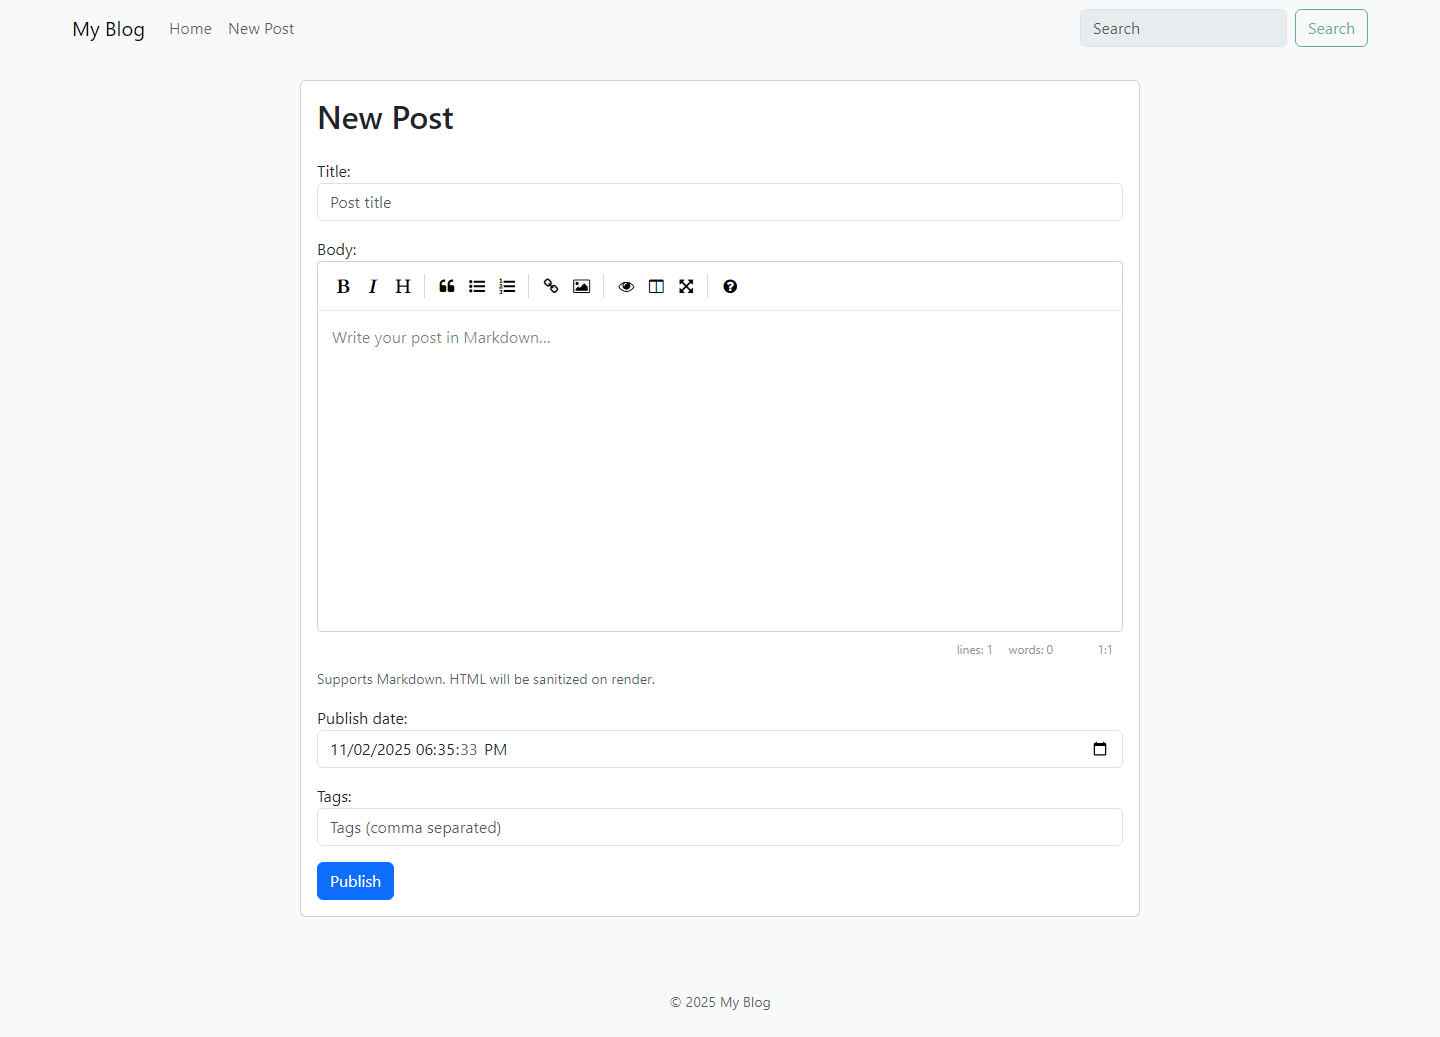
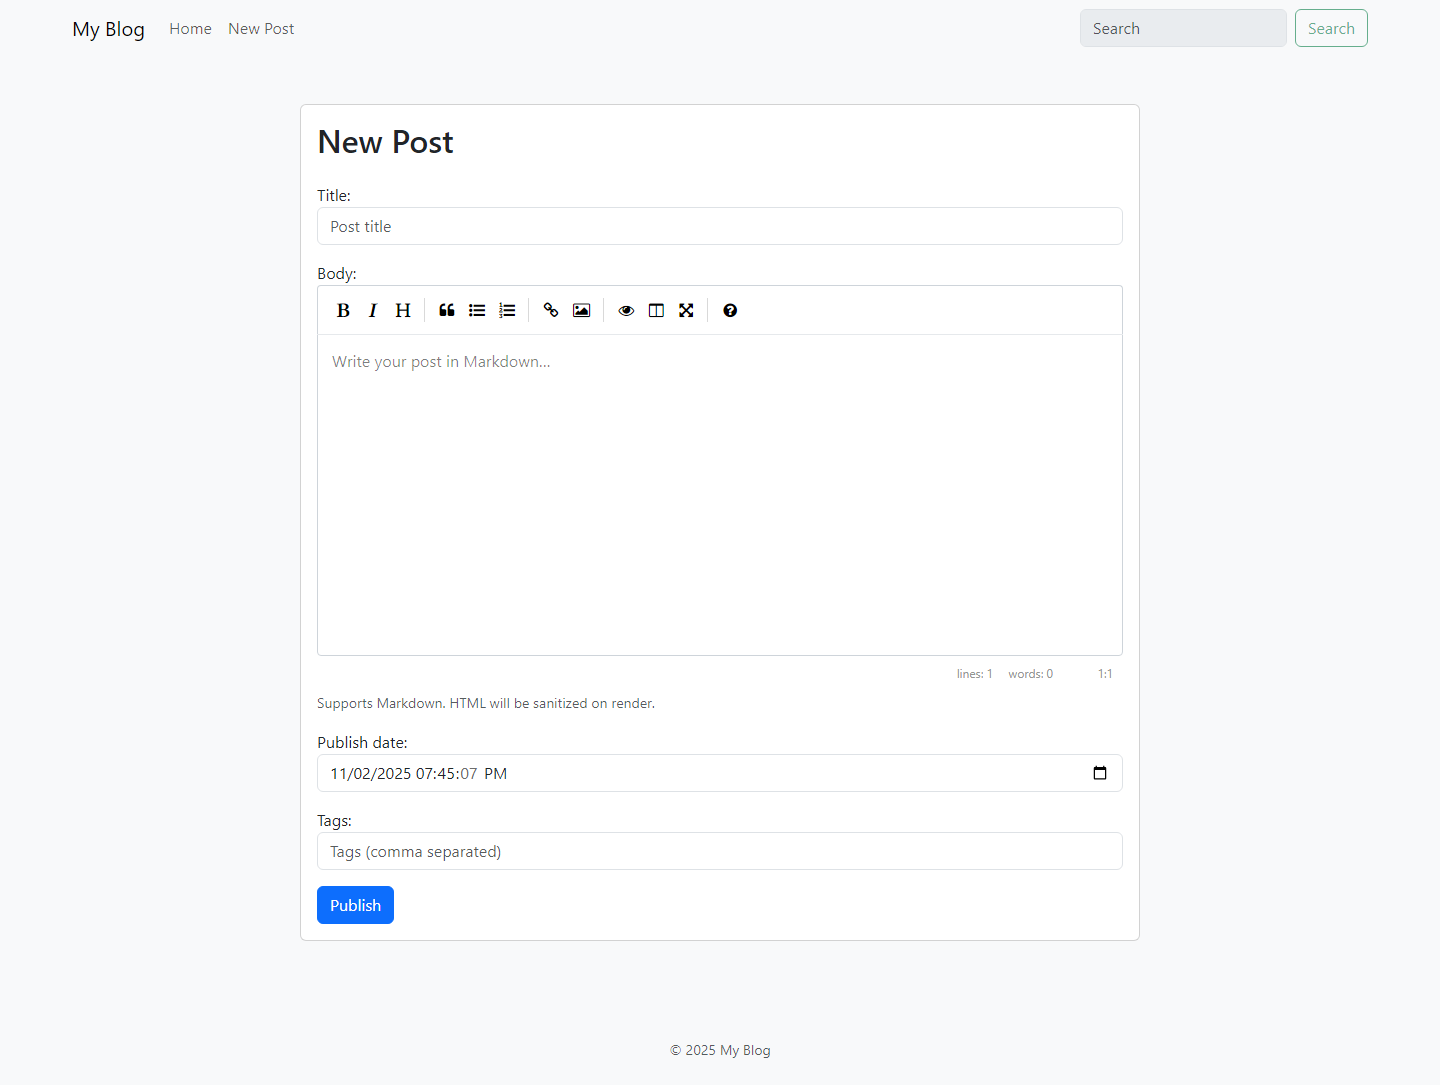
feat: sticky footer partial and richer visual-check screenshots; build: require Python 3.13; docs: uv/uvx + ruff

diff --git a/blog_site/blog/templates/blog/base.html b/blog_site/blog/templates/blog/base.html
@@ -18,17 +18,13 @@
         <link href="https://cdn.jsdelivr.net/npm/bootstrap@5.3.3/dist/css/bootstrap.min.css"
               rel="stylesheet">
     </head>
-    <body class="bg-light">
+    <body class="bg-light d-flex flex-column min-vh-100">
         {% include "includes/navbar.html" %}
-        <main class="container my-4">
+        <main class="container my-4 flex-grow-1">
             {% block content %}
             {% endblock content %}
         </main>
-        <footer class="bg-body-tertiary py-4 mt-5">
-            <div class="container text-center">
-                <small class="text-muted">© {% now "Y" %} My Blog</small>
-            </div>
-        </footer>
+        {% include "includes/footer.html" %}
         <!-- HTMX (optional) -->
         <script src="https://unpkg.com/htmx.org@1.9.12"></script>
         <!-- Bootstrap Bundle -->

diff --git a/blog_site/blog/templates/includes/footer.html b/blog_site/blog/templates/includes/footer.html
@@ -1,0 +1,6 @@
+<footer class="bg-body-tertiary py-4 mt-5">
+  <div class="container text-center">
+    <small class="text-muted">© {% now "Y" %} My Blog</small>
+  </div>
+  {% block extra_footer %}{% endblock extra_footer %}
+</footer>

diff --git a/blog_site/blog/tests.py b/blog_site/blog/tests.py
@@ -1,7 +1,8 @@
 from django.test import TestCase
-from django.urls import reverse, resolve
-from .models import Post
+from django.urls import resolve, reverse
 from django.utils import timezone
+
+from .models import Post
 
 
 class PostCBVTests(TestCase):
@@ -22,9 +23,7 @@ class PostCBVTests(TestCase):
         self.assertContains(response, self.post.title)
 
     def test_post_detail_view(self):
-        response = self.client.get(
-            reverse("blog:post_detail", kwargs={"slug": self.post.slug})
-        )
+        response = self.client.get(reverse("blog:post_detail", kwargs={"slug": self.post.slug}))
         self.assertEqual(response.status_code, 200)
         self.assertContains(response, self.post.body)
 
@@ -54,9 +53,7 @@ class PostCBVTests(TestCase):
         self.assertEqual(self.post.title, "Updated Title")
 
     def test_post_delete_view(self):
-        response = self.client.post(
-            reverse("blog:post_delete", kwargs={"slug": self.post.slug})
-        )
+        response = self.client.post(reverse("blog:post_delete", kwargs={"slug": self.post.slug}))
         self.assertEqual(response.status_code, 302)
         self.assertFalse(Post.objects.filter(pk=self.post.pk).exists())
 
@@ -64,13 +61,9 @@ class PostCBVTests(TestCase):
         """
         The post detail view should render Markdown and sanitize HTML.
         """
-        self.post.body = (
-            "**Bold** and [link](https://example.com)<script>alert(1)</script>"
-        )
+        self.post.body = "**Bold** and [link](https://example.com)<script>alert(1)</script>"
         self.post.save()
-        response = self.client.get(
-            reverse("blog:post_detail", kwargs={"slug": self.post.slug})
-        )
+        response = self.client.get(reverse("blog:post_detail", kwargs={"slug": self.post.slug}))
         self.assertContains(response, "<strong>Bold</strong>")
         self.assertContains(response, '<a href="https://example.com"')
         self.assertNotContains(response, "<script>")

diff --git a/blog_site/scripts/visual_check.py b/blog_site/scripts/visual_check.py
@@ -61,13 +61,21 @@ def main() -> int:
             context = browser.new_context(viewport={"width": 1440, "height": 900})
             page = context.new_page()
 
-            # 1) Blog list page
-            page.goto(f"{base_url}/blog/", wait_until="networkidle")
-            page.screenshot(path=str(out_dir / "blog_list.png"), full_page=True)
+            ts = time.strftime("%Y%m%d_%H%M%S")
+            history_dir = out_dir / "history"
+            history_dir.mkdir(exist_ok=True)
 
-            # 2) New post form (no submit to avoid editor scripting complexities)
-            page.goto(f"{base_url}/blog/post/new/", wait_until="networkidle")
+            # 1) Blog list page (cache-busted) — capture full-page and viewport variants
+            page.goto(f"{base_url}/blog/?_ts={ts}", wait_until="networkidle")
+            page.screenshot(path=str(out_dir / "blog_list.png"), full_page=True)
+            page.screenshot(path=str(out_dir / "blog_list_vp.png"), full_page=False)
+            page.screenshot(path=str(history_dir / f"blog_list_{ts}.png"), full_page=False)
+
+            # 2) New post form (cache-busted); no submit to avoid editor complexities
+            page.goto(f"{base_url}/blog/post/new/?_ts={ts}", wait_until="networkidle")
             page.screenshot(path=str(out_dir / "post_form.png"), full_page=True)
+            page.screenshot(path=str(out_dir / "post_form_vp.png"), full_page=False)
+            page.screenshot(path=str(history_dir / f"post_form_{ts}.png"), full_page=False)
 
             context.close()
             browser.close()

diff --git a/blog_site/blog/forms.py b/blog_site/blog/forms.py
@@ -1,4 +1,5 @@
 from django import forms
+
 from .models import Post
 
 
@@ -22,9 +23,7 @@ class PostForm(forms.ModelForm):
             "publish_date": forms.DateTimeInput(
                 attrs={"type": "datetime-local", "class": "form-control"}
             ),
-            "title": forms.TextInput(
-                attrs={"class": "form-control", "placeholder": "Post title"}
-            ),
+            "title": forms.TextInput(attrs={"class": "form-control", "placeholder": "Post title"}),
             "tags": forms.TextInput(
                 attrs={"class": "form-control", "placeholder": "Tags (comma separated)"}
             ),

diff --git a/blog_site/myblog/urls.py b/blog_site/myblog/urls.py
@@ -14,11 +14,11 @@ Including another URLconf
     1. Import the include() function: from django.urls import include, path
     2. Add a URL to urlpatterns:  path('blog/', include('blog.urls'))
 """
+
 from django.contrib import admin
-from django.urls import path, include
+from django.urls import include, path
 
 urlpatterns = [
     path("admin/", admin.site.urls),
-    path('blog/', include('blog.urls', namespace='blog')),
-
+    path("blog/", include("blog.urls", namespace="blog")),
 ]

diff --git a/blog_site/blog/views.py b/blog_site/blog/views.py
@@ -1,13 +1,14 @@
-from django.views.generic import (
-    ListView,
-    DetailView,
-    CreateView,
-    UpdateView,
-    DeleteView,
-)
 from django.urls import reverse_lazy
-from .models import Post
+from django.views.generic import (
+    CreateView,
+    DeleteView,
+    DetailView,
+    ListView,
+    UpdateView,
+)
+
 from .forms import PostForm
+from .models import Post
 
 
 class PostListView(ListView):

diff --git a/blog_site/blog/admin.py b/blog_site/blog/admin.py
@@ -1,9 +1,11 @@
 from django.contrib import admin
+
 from .models import Post
+
 
 @admin.register(Post)
 class PostAdmin(admin.ModelAdmin):
     list_display = ("title", "publish_date")
     search_fields = ("title", "body")
-    #prepopulated_fields = {"slug": ("title",)}
+    # prepopulated_fields = {"slug": ("title",)}
     change_form_template = "admin/blog/post/change_form.html"

diff --git a/api_examples/enroll_all.py b/api_examples/enroll_all.py
@@ -14,7 +14,7 @@ while url is not None:
     url = response["next"]
     courses = response["results"]
     available_courses += [course["title"] for course in courses]
-print(f'Available courses: {", ".join(available_courses)}')
+print(f"Available courses: {', '.join(available_courses)}")
 
 for course in courses:
     course_id = course["id"]

diff --git a/blog_site/blog/_functon_based_views.py b/blog_site/blog/_functon_based_views.py
@@ -1,7 +1,8 @@
-from django.shortcuts import render, get_object_or_404, redirect
 from django.http import HttpRequest, HttpResponse
-from .models import Post
+from django.shortcuts import get_object_or_404, redirect, render
+
 from .forms import PostForm
+from .models import Post
 
 
 def post_list(request: HttpRequest) -> HttpResponse:

diff --git a/blog_site/blog/urls.py b/blog_site/blog/urls.py
@@ -1,12 +1,12 @@
 from django.urls import path
-from .views import (
-    PostListView,
-    PostDetailView,
-    PostCreateView,
-    PostUpdateView,
-    PostDeleteView,
-)
 
+from .views import (
+    PostCreateView,
+    PostDeleteView,
+    PostDetailView,
+    PostListView,
+    PostUpdateView,
+)
 
 app_name = "blog"
 

diff --git a/blog_site/myblog/settings.py b/blog_site/myblog/settings.py
@@ -38,10 +38,8 @@ INSTALLED_APPS = [
     "django.contrib.sessions",
     "django.contrib.messages",
     "django.contrib.staticfiles",
-    
     # third-party apps
     "taggit",
-    
     # local apps
     "blog.apps.BlogConfig",
 ]
